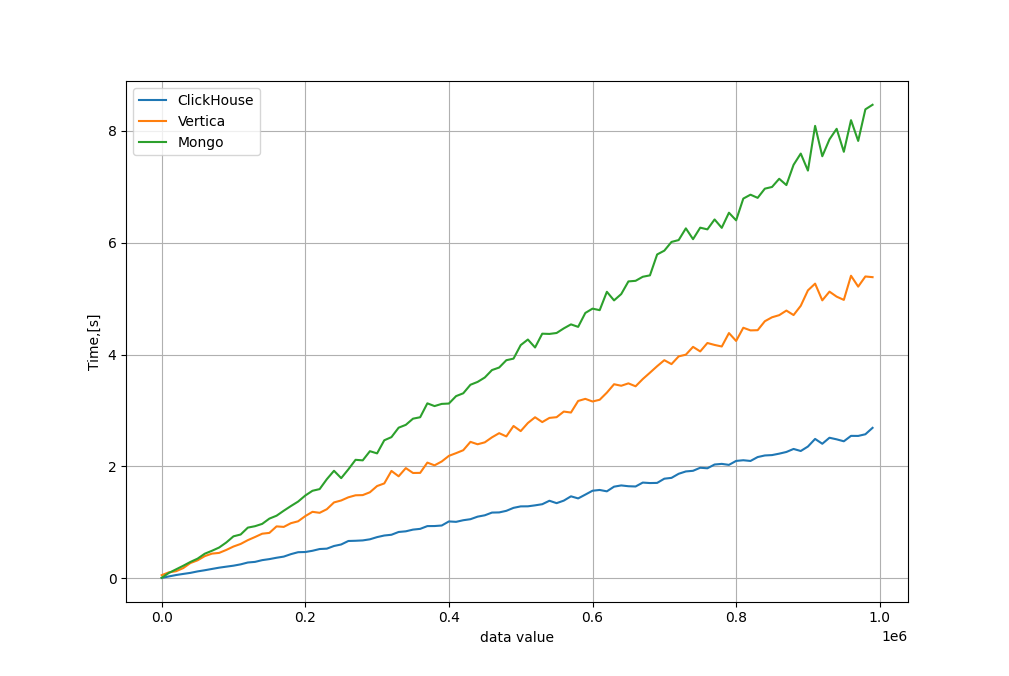
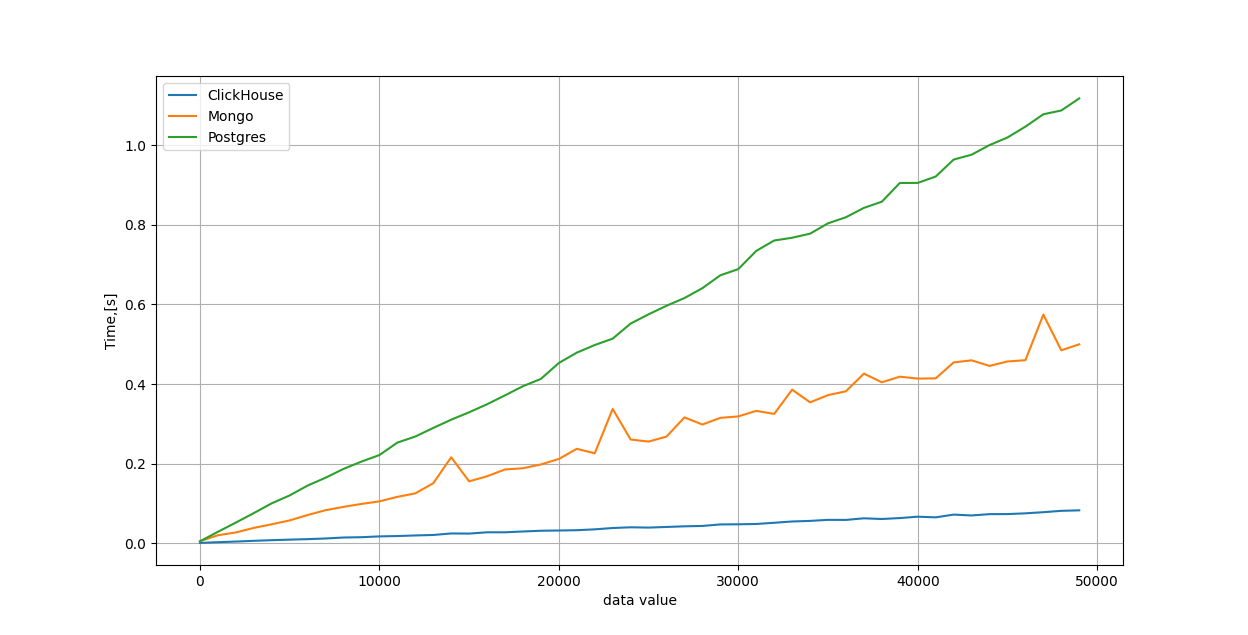
update benchmarks point 1

diff --git a/benchmarks/benchmark.py b/benchmarks/benchmark.py
@@ -6,29 +6,39 @@ from tqdm import tqdm
 from db.clickhousestore import ClickHouse
 from db.vertica import Vertica
 from db.mongosrore import Mongo
+from db.pgstore import Postgres
 from settings.settings import settings
 from utils.data_generator import data_generator
 from utils.timer import timer
 
 
-@timer(10)
+@timer(1)
 def inser_to_db(db, data: list):
 
-    column = ['id', 'relation_uuid', 'object_type', 'timestamp', 'content']
-    db.write(data, settings.event_table, column)
+    column = ['id', 'relation_uuid', 'user_uuid', 'object_type', 'timestamp', 'content']
+    db.write(settings.event_table, column, data)
 
 
-@timer(10)
+@timer(1)
 def get_from_db(db, limit: int):
 
     db.read(settings.event_table, limit)
 
 
+@timer(1)
+def single_inser_to_db(db, count):
+
+    column = ['id', 'relation_uuid', 'user_uuid', 'object_type', 'timestamp', 'content']
+    for iter in range(count):
+        data = data_generator(1)
+        db.write(settings.event_table, column, data)
+
+
 def write_benchmark(func, test_db: list) -> dict[str, list]:
 
     results = {'batch_value': []}
-    for batch_value in tqdm(range(1, 1000000, 10000)):
-        data = data_generator(batch_value)
+    for batch_value in tqdm(range(1, 50000, 1000)):
+
         results['batch_value'].append(batch_value)
 
         for db in test_db:
@@ -45,7 +55,7 @@ def write_benchmark(func, test_db: list) -> dict[str, list]:
 def read_benchmark(func, test_db: list) -> dict[str, list]:
 
     results = {'limit': []}
-    for limit in tqdm(range(1, 1000000, 10000)):
+    for limit in tqdm(range(1, 50000, 5000)):
 
         results['limit'].append(limit)
 
@@ -57,6 +67,20 @@ def read_benchmark(func, test_db: list) -> dict[str, list]:
             else:
                 results[db.__class__.__name__] = [res_time]
 
+    return results
+
+
+def single_write(func, test_db: list) -> dict[str, list]:
+    results = {'limit': []}
+    for limit in tqdm(range(1, 1000, 100)):
+        results['limit'].append(limit)
+        for db in test_db:
+            res_time = func(db, limit)
+
+            if db.__class__.__name__ in results:
+                results[db.__class__.__name__].append(res_time)
+            else:
+                results[db.__class__.__name__] = [res_time]
     return results
 
 
@@ -92,10 +116,21 @@ if __name__ == '__main__':
         settings.mongo_db_name
     )
 
+    pgstore = Postgres(
+        settings.pg_host,
+        settings.pg_port,
+        settings.pg_db_name,
+        settings.pg_user,
+        settings.pg_password
+    )
+
     write_res = write_benchmark(
-        inser_to_db, [ch_store, vertica_store, mongostore])
+        inser_to_db, [ch_store, mongostore])
     plot(write_res)
 
     read_res = read_benchmark(
-        get_from_db, [ch_store, vertica_store, mongostore])
+        get_from_db, [ch_store, pgstore])
     plot(read_res)
+
+    single_write_res = single_write(single_inser_to_db, [ch_store, mongostore, pgstore])
+    plot(single_write_res)

diff --git a/benchmarks/db/pgstore.py b/benchmarks/db/pgstore.py
@@ -1,0 +1,57 @@
+from contextlib import contextmanager
+
+import psycopg2
+from psycopg2.extensions import connection as pg_connection
+from psycopg2.extras import DictCursor
+
+from db.store import BaseStorage
+
+
+class Postgres(BaseStorage):
+
+    def __init__(self, host, port, db_name, user, password):
+
+        self.dsl = {
+            'dbname': db_name,
+            'user': user,
+            'password': password,
+            'host': host,
+            'port': port
+        }
+
+    def write(
+            self, table: str, column: list, data: tuple
+    ) -> None:
+
+        column = ", ".join(column)
+        conn = psycopg2.connect(**self.dsl, cursor_factory=DictCursor)
+
+        with conn:
+            with conn.cursor() as cursor:
+
+                query = (
+                    f'INSERT INTO public.{table} ({column}) '
+                    f'VALUES %s ON CONFLICT (id) DO NOTHING'
+                )
+
+                psycopg2.extras.execute_values(cursor, query, data)
+
+    def read(self, table: str, limit) -> list:
+
+        with psycopg2.connect(**self.dsl) as conn:
+            with conn.cursor() as cursor:
+                query = f'SELECT * FROM public.{table} LIMIT {limit}'
+                cursor.execute(query)
+
+                data = cursor.fetchall()
+
+        return data
+
+    @contextmanager
+    def pg_context(self) -> pg_connection:
+        try:
+            conn = psycopg2.connect(**self.dsl, cursor_factory=DictCursor)
+            yield conn
+            conn.close()
+        except psycopg2.OperationalError as e:
+            print(f'Unable to connect because {e}')

diff --git a/benchmarks/utils/data_generator.py b/benchmarks/utils/data_generator.py
@@ -1,7 +1,6 @@
-import string
 import random
-from datetime import datetime, timedelta
-
+import string
+from time import time
 from uuid import uuid4
 
 events = (
@@ -10,14 +9,22 @@ events = (
 )
 
 
+def generate_random_string():
+    length = random.randint(1, 100)
+    letters = string.ascii_lowercase
+    rand_string = ''.join(random.choice(letters) for i in range(length))
+    return rand_string
+
+
 def data_generator(batch_size: int) -> list:
     data = [
         (
             str(uuid4()),
             str(uuid4()),
-            random.randint(0, 1000),
-            datetime(2024, 1, 1, hour=0, minute=0, second=0),
+            str(uuid4()),
             random.choice(events),
+            int(time()),
+            generate_random_string(),
 
 
         ) for i in range(batch_size)

diff --git a/benchmarks/settings/settings.py b/benchmarks/settings/settings.py
@@ -13,11 +13,16 @@ class Settings(BaseSettings):
     vertica_port: int = 5433
     vertica_user: str = 'dbadmin'
     vertica_db_name: str = 'docker'
-    mongo_port: int = 5433
-    mongo_host: str = 'dbadmin'
-    mongo_db_name: str = 'docker'
+    mongo_port: int = 27019
+    mongo_host: str = '0.0.0.0'
+    mongo_db_name: str = 'someDb'
+    pg_host: str = '0.0.0.0'
+    pg_port: int = 5432
+    pg_db_name: str = 'benchmark'
+    pg_user: str = 'postgres'
+    pg_password: str = 'postgres'
 
-    event_table: str = 'ugc_db'
+    event_table: str = 'events'
 
 
 settings = Settings()

diff --git a/benchmarks/db/vertica.py b/benchmarks/db/vertica.py
@@ -17,7 +17,7 @@ class Vertica(BaseStorage):
 
         }
 
-    def write(self, data: list, table: str, column: list) -> bool | None:
+    def write(self, table: str, column: list, data: list) -> bool | None:
 
         if not data:
             return
@@ -32,6 +32,9 @@ class Vertica(BaseStorage):
                 f'({",".join(column)}) '
                 f'VALUES ({values})'
             )
+            # print(column)
+            # print(query)
+            # print(data)
 
             cursor.executemany(query, data)
 

diff --git a/benchmarks/db/mongosrore.py b/benchmarks/db/mongosrore.py
@@ -24,7 +24,7 @@ class Mongo(BaseStorage):
 
         return result
 
-    def write(self, data: list, table: str, column: list) -> bool | None:
+    def write(self, table: str, column: list, data: list) -> bool | None:
 
         documents = [dict(zip(column, item)) for item in data]
 

diff --git a/benchmarks/db/clickhousestore.py b/benchmarks/db/clickhousestore.py
@@ -37,7 +37,7 @@ class ClickHouse(BaseStorage):
 
         return data
 
-    def write(self, data: list, table: str, column: list) -> bool | None:
+    def write(self, table: str, column: list, data: list) -> bool | None:
 
         asyncio.run(self.async_write(data))
 

diff --git a/benchmarks/db/store.py b/benchmarks/db/store.py
@@ -3,7 +3,7 @@ from abc import ABC
 
 class BaseStorage(ABC):
 
-    def write(self, table, data):
+    def write(self, table, column, data):
         pass
 
     def read(self, table, limit):

diff --git a/benchmarks/README.md b/benchmarks/README.md
@@ -15,5 +15,14 @@
 ![select_test](pic/read_bench.png)
 
 
+
+Тест одностроковой записи:
+
+
+![insert_test](pic/single_write_bench.png)
+
+
 - ключевым моментом при выборе БД дял пользовательского контента является скорость чтения. В наших тестах mongoDb показал самую высокую скорость в этом тетсе. При этом с увеличением объёма данных скорость чтения для mongoDb падает медленнее чем у других бд из нашего теста. Поэтому в качесте бд для пользовательского контента будет использован mongoDb
+
+- при единичной записи mongoDb показал второй результат, но для наших задач гораздо важнее быстрое чтение, для загрузки страниц с большим количеством комментариев, лайков и пр. 
 
